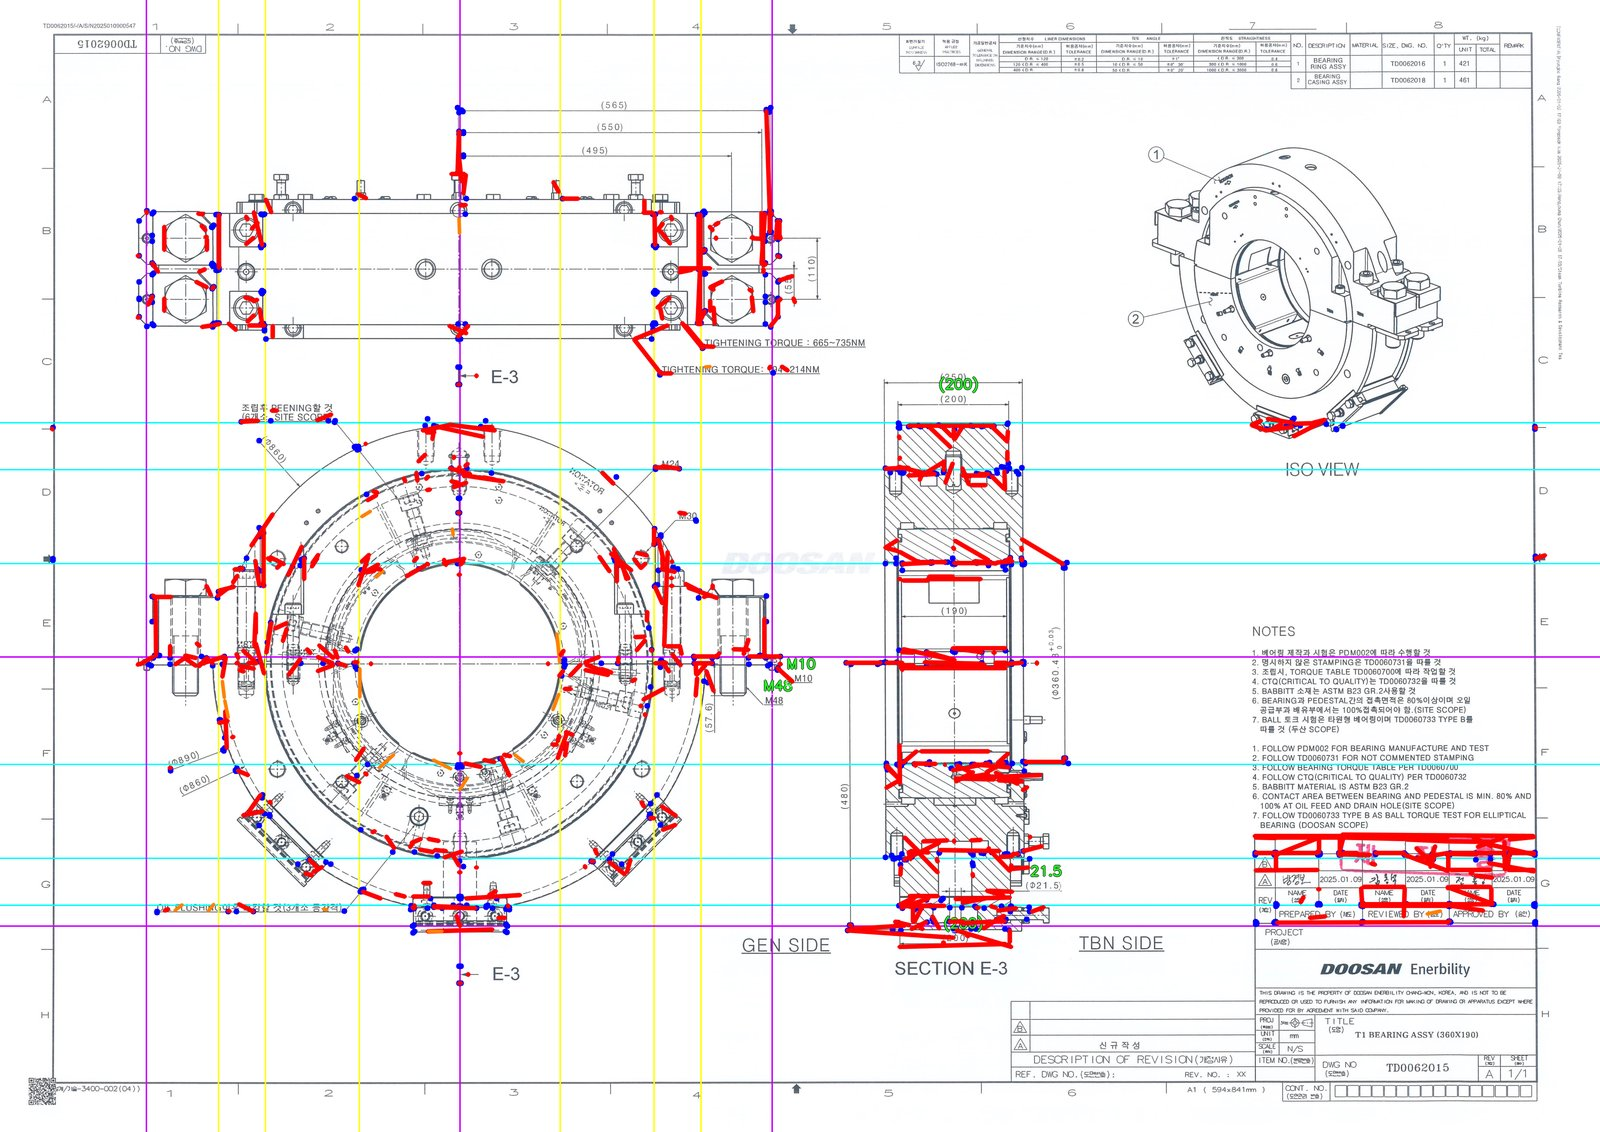
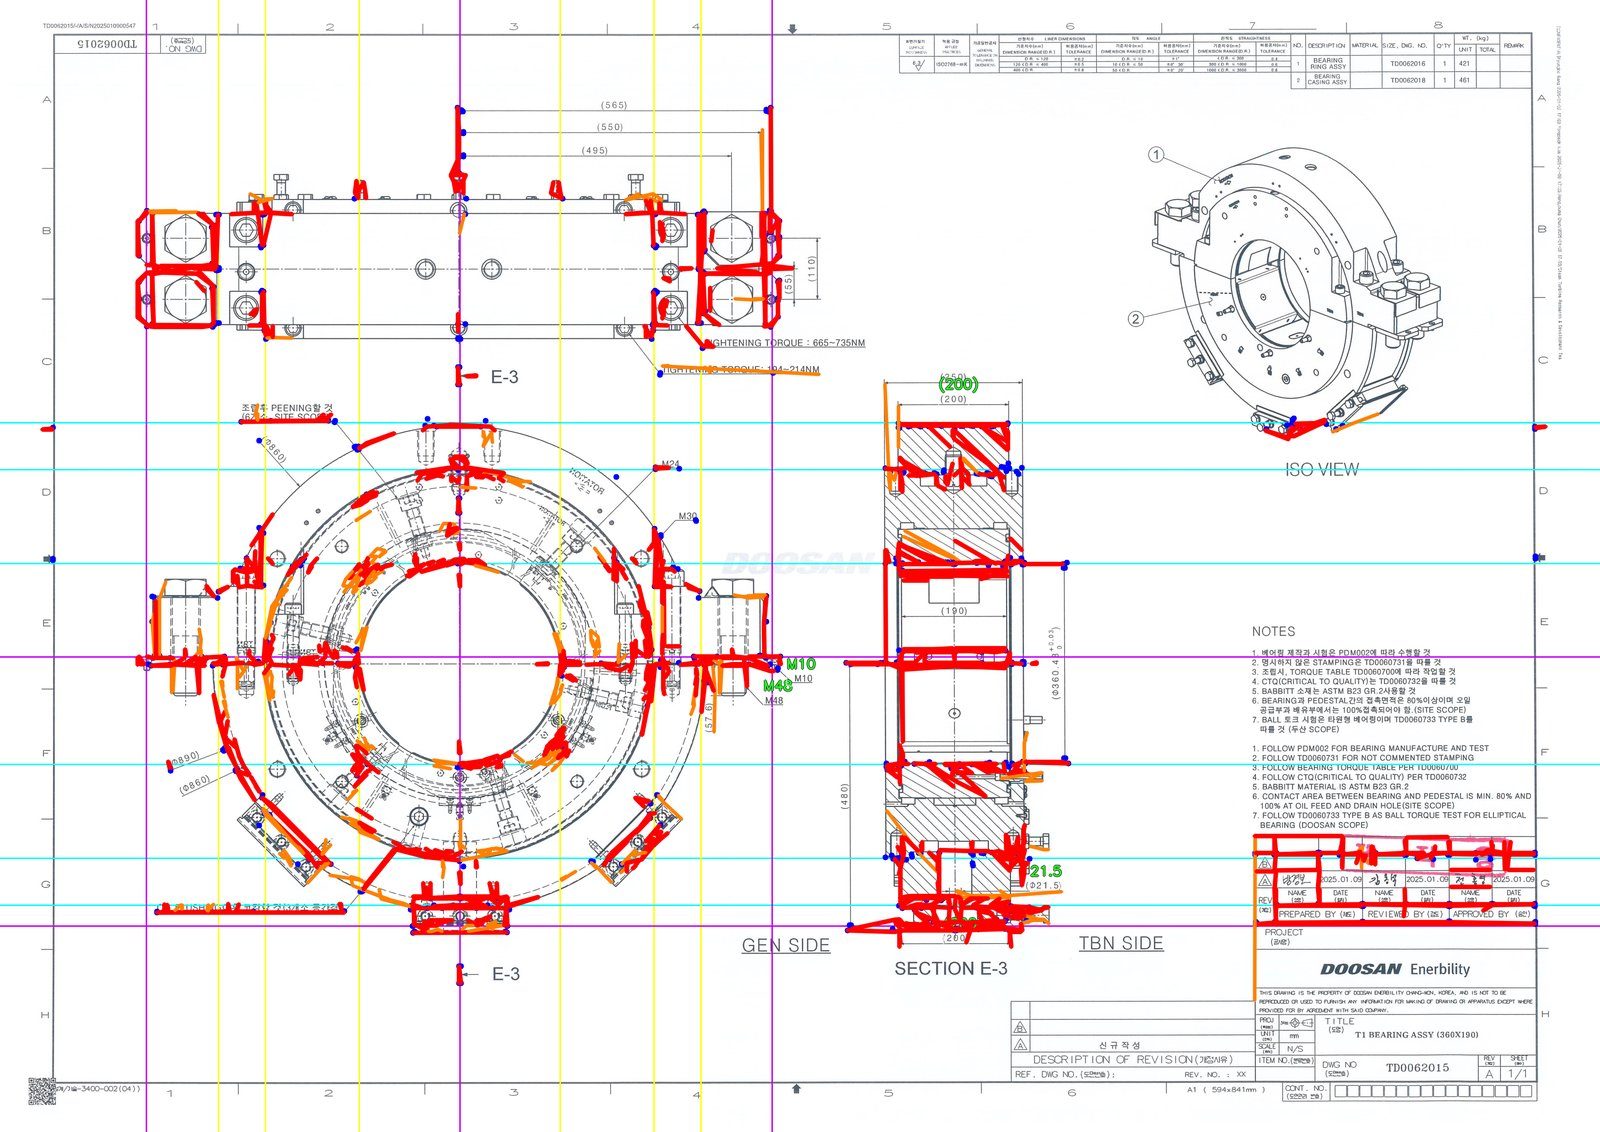
Fix line detector angle wrap and waypoint overlays

diff --git a/blueprint-ai-bom/scripts/s08_cardinal_v3_ocr.py b/blueprint-ai-bom/scripts/s08_cardinal_v3_ocr.py
@@ -74,6 +74,65 @@ def get_line_endpoints(line: dict[str, Any]) -> tuple[tuple[float, float], tuple
     return (float(start[0]), float(start[1])), (float(end[0]), float(end[1]))
 
 
+def get_line_waypoints(line: dict[str, Any]) -> list[tuple[float, float]]:
+    raw_waypoints = line.get("waypoints")
+    if isinstance(raw_waypoints, list):
+        waypoints: list[tuple[float, float]] = []
+        for point in raw_waypoints:
+            if not isinstance(point, (list, tuple)) or len(point) < 2:
+                continue
+            try:
+                waypoints.append((float(point[0]), float(point[1])))
+            except (TypeError, ValueError):
+                continue
+        if len(waypoints) >= 2:
+            return waypoints
+
+    start_point, end_point = get_line_endpoints(line)
+    return [start_point, end_point]
+
+
+def find_line_projection_alignment(
+    line: dict[str, Any],
+    projection_lines: list[dict[str, Any]],
+    start_match: dict[str, Any] | None = None,
+    end_match: dict[str, Any] | None = None,
+) -> dict[str, Any] | None:
+    waypoints = get_line_waypoints(line)
+    if start_match is not None:
+        waypoints[0] = (float(start_match["x"]), float(start_match["y"]))
+    if end_match is not None:
+        waypoints[-1] = (float(end_match["x"]), float(end_match["y"]))
+
+    best_alignment: dict[str, Any] | None = None
+    best_length = -1.0
+
+    for segment_start, segment_end in zip(waypoints, waypoints[1:]):
+        if squared_distance(segment_start, segment_end) == 0.0:
+            continue
+
+        projection_alignment = find_projection_alignment(
+            segment_start,
+            segment_end,
+            projection_lines,
+        )
+        if projection_alignment is None:
+            continue
+
+        segment_length = math.sqrt(squared_distance(segment_start, segment_end))
+        if segment_length <= best_length:
+            continue
+
+        best_length = segment_length
+        best_alignment = {
+            "projection_alignment": projection_alignment,
+            "segment_start_point": segment_start,
+            "segment_end_point": segment_end,
+        }
+
+    return best_alignment
+
+
 def find_nearest_projection_endpoint(
     point: tuple[float, float],
     endpoints: list[dict[str, float | int]],
@@ -244,34 +303,27 @@ def filter_connected_lines(
         if start_match is None and end_match is None:
             continue
 
-        alignment_start_point = (
-            (float(start_match["x"]), float(start_match["y"]))
-            if start_match is not None
-            else start_point
-        )
-        alignment_end_point = (
-            (float(end_match["x"]), float(end_match["y"]))
-            if end_match is not None
-            else end_point
-        )
-        projection_alignment = find_projection_alignment(
-            alignment_start_point,
-            alignment_end_point,
+        projection_alignment_info = find_line_projection_alignment(
+            line,
             projection_lines,
+            start_match=start_match,
+            end_match=end_match,
         )
-        if projection_alignment is None:
+        if projection_alignment_info is None:
             continue
 
+        aligned_start_point = projection_alignment_info["segment_start_point"]
+        aligned_end_point = projection_alignment_info["segment_end_point"]
         annotated = {
             **line,
             "start_match": start_match,
             "end_match": end_match,
-            "projection_alignment": projection_alignment,
-            "start_point_xy": start_point,
-            "end_point_xy": end_point,
+            "projection_alignment": projection_alignment_info["projection_alignment"],
+            "start_point_xy": aligned_start_point,
+            "end_point_xy": aligned_end_point,
             "midpoint": (
-                (start_point[0] + end_point[0]) / 2.0,
-                (start_point[1] + end_point[1]) / 2.0,
+                (aligned_start_point[0] + aligned_end_point[0]) / 2.0,
+                (aligned_start_point[1] + aligned_end_point[1]) / 2.0,
             ),
         }
         connected_lines.append(annotated)
@@ -445,12 +497,16 @@ def render_overlay(
 
     # Draw line-detector segments after projection lines/endpoints so they stay visible.
     for line in connected_lines:
-        start_point = tuple(int(round(value)) for value in line["start_point_xy"])
-        end_point = tuple(int(round(value)) for value in line["end_point_xy"])
         is_pair = line.get("start_match") is not None and line.get("end_match") is not None
         color = PAIR_LINE_COLOR if is_pair else CONNECTED_LINE_COLOR
         thickness = PAIR_LINE_THICKNESS if is_pair else CONNECTED_LINE_THICKNESS
-        cv2.line(canvas, start_point, end_point, color, thickness, cv2.LINE_AA)
+        waypoints = get_line_waypoints(line)
+        points = np.array(
+            [[int(round(x)), int(round(y))] for x, y in waypoints],
+            dtype=np.int32,
+        )
+        if len(points) >= 2:
+            cv2.polylines(canvas, [points], False, color, thickness, cv2.LINE_AA)
 
     return Image.fromarray(cv2.cvtColor(canvas, cv2.COLOR_BGR2RGB))
 

diff --git a/models/line-detector-api/tests/test_detection_service.py b/models/line-detector-api/tests/test_detection_service.py
@@ -1,0 +1,35 @@
+"""Focused tests for detection_service regressions."""
+
+from __future__ import annotations
+
+import os
+import sys
+
+
+sys.path.insert(0, os.path.dirname(os.path.dirname(os.path.abspath(__file__))))
+
+from services.detection_service import merge_collinear_lines
+
+
+def test_merge_collinear_lines_does_not_merge_wrapped_right_angle() -> None:
+    """Regression for wrapped angle diffs like -90.3 vs 180.0."""
+    lines = [
+        {
+            "id": 0,
+            "start_point": (0.0, 0.0),
+            "end_point": (0.0, 10.0),
+            "length": 10.0,
+            "angle": -90.3,
+        },
+        {
+            "id": 1,
+            "start_point": (0.0, 10.0),
+            "end_point": (-10.0, 10.0),
+            "length": 10.0,
+            "angle": 180.0,
+        },
+    ]
+
+    merged = merge_collinear_lines(lines, angle_threshold=5.0, distance_threshold=20.0)
+
+    assert len(merged) == 2

diff --git a/models/line-detector-api/services/detection_service.py b/models/line-detector-api/services/detection_service.py
@@ -177,7 +177,7 @@ def merge_collinear_lines(lines: List[Dict], angle_threshold: float = 5.0,
             if j in used:
                 continue
 
-            angle_diff = abs(line1['angle'] - line2['angle'])
+            angle_diff = abs(line1['angle'] - line2['angle']) % 180
             if angle_diff > 90:
                 angle_diff = 180 - angle_diff
 
